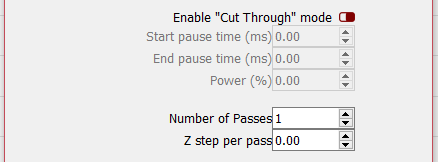
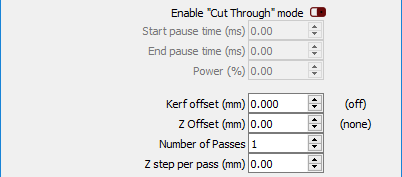
Addded flood fill, kerf, z offset, etc.

diff --git a/Operations.md b/Operations.md
@@ -49,7 +49,7 @@ Cut will trace the laser along the vector path. Depending on the power and feed 
 ![Cut Mode Settings](/img/CutSettingsAdditional.PNG)
 
 #### Enable "Cut-Through" Mode
-This setting is used primarily for Ruida based machines. Enabling this setting will allow the laser to dwell in the same position after initially firing or before turning off based on the settings below.
+This setting is only available for Ruida based machines. Enabling this setting will allow the laser to dwell in the same position after initially firing or before turning off based on the settings below, and is useful for piercing thick materials before the cut starts.
 
 * Start pause time (ms): Number of milliseconds to fire the laser before moving
 * End pause time (ms): Number of milliseconds to fire the laser at the end of a move
@@ -57,6 +57,8 @@ This setting is used primarily for Ruida based machines. Enabling this setting w
 
 
 #### Passes
+* Kerf offset: Allows you to shift the cut inward or outward from a closed shape to compensate for the diameter of the beam. This is useful when making parts like inlays or finger joins.
+* Z Offset: Specifies an amount to offset the laser head (or bed) for this cut. Useful for defocusing, or pushing the focus point into deep materials for cutting.
 * Number of Passes: The number of times the laser will trace the same path
 * Z step per pass: Increase or decrease bed height for powered Z bed
 
@@ -92,7 +94,7 @@ When engraving, the head is scanning back and forth. Because the laser has to ac
 
 Overscanning generates extra moves, past the ends of each line, switching the laser off before it fully stops, or even before it begins to decelerate, allowing the entirety of the engraving to happen at the desired head speed and then decelerating while the laser is not burning. The overscan number is a percentage of your cut speed - the default setting is 2.5%, meaning a cut at 100mm/sec will move an additional 2.5mm past the last cut with the laser off.
 
-Note, Overscan is applied automatically by Ruida hardware. If you are on Ruida then you will not see the Overscan option. This is primarily for gcode driven controllers.  
+Note, Overscan is applied automatically by Ruida hardware. This setting is only available for gcode based controllers.
 
 <a name="lineinterval"></a>
 ### Line Interval (mm)
@@ -109,6 +111,10 @@ The default scan angle is 0. This will produce scan lines along the X path only.
 
 On Ruida hardware, scan angles that are multiples of 90 degrees are supported natively by the hardware and will automatically overscan for you.  Other angles are scanned using standard cutting commands.
 
+### Z-Offset, Number of Passes, and Z-Step per pass
+
+These options behave identically to their counterparts in a standard cut.
+
 ### Scan all shapes at once
 
 This setting tells the scanner to group all shapes within a cut layer together and scan them all at once. In most cases this is faster than scanning individually, if your laser is fast.
@@ -116,6 +122,10 @@ This setting tells the scanner to group all shapes within a cut layer together a
 ### Scan shapes individually
 
 This will scan each distinct shape in your layer one at a time.  For users with slower moving lasers, this will occasionally be faster than scanning shapes together.  For example, if you have two filled shapes on opposite sides of your work area, filling one, then the other is probably faster than continually scanning back and forth across the work area.
+
+### Flood Fill Scanning
+
+This option is intended for use with slower machines where traversing is more time consuming than reversing direction. It will prefer direction changes over long traversals, and will save scanning time if the machine has a slow rapid speed, or quick acceleration. This *can* be used with image scans as well, but the cost to compute the path can be very high - use sparingly, and only with very simple image modes like threshold.
 
 <a name="scancut"></a>
 
